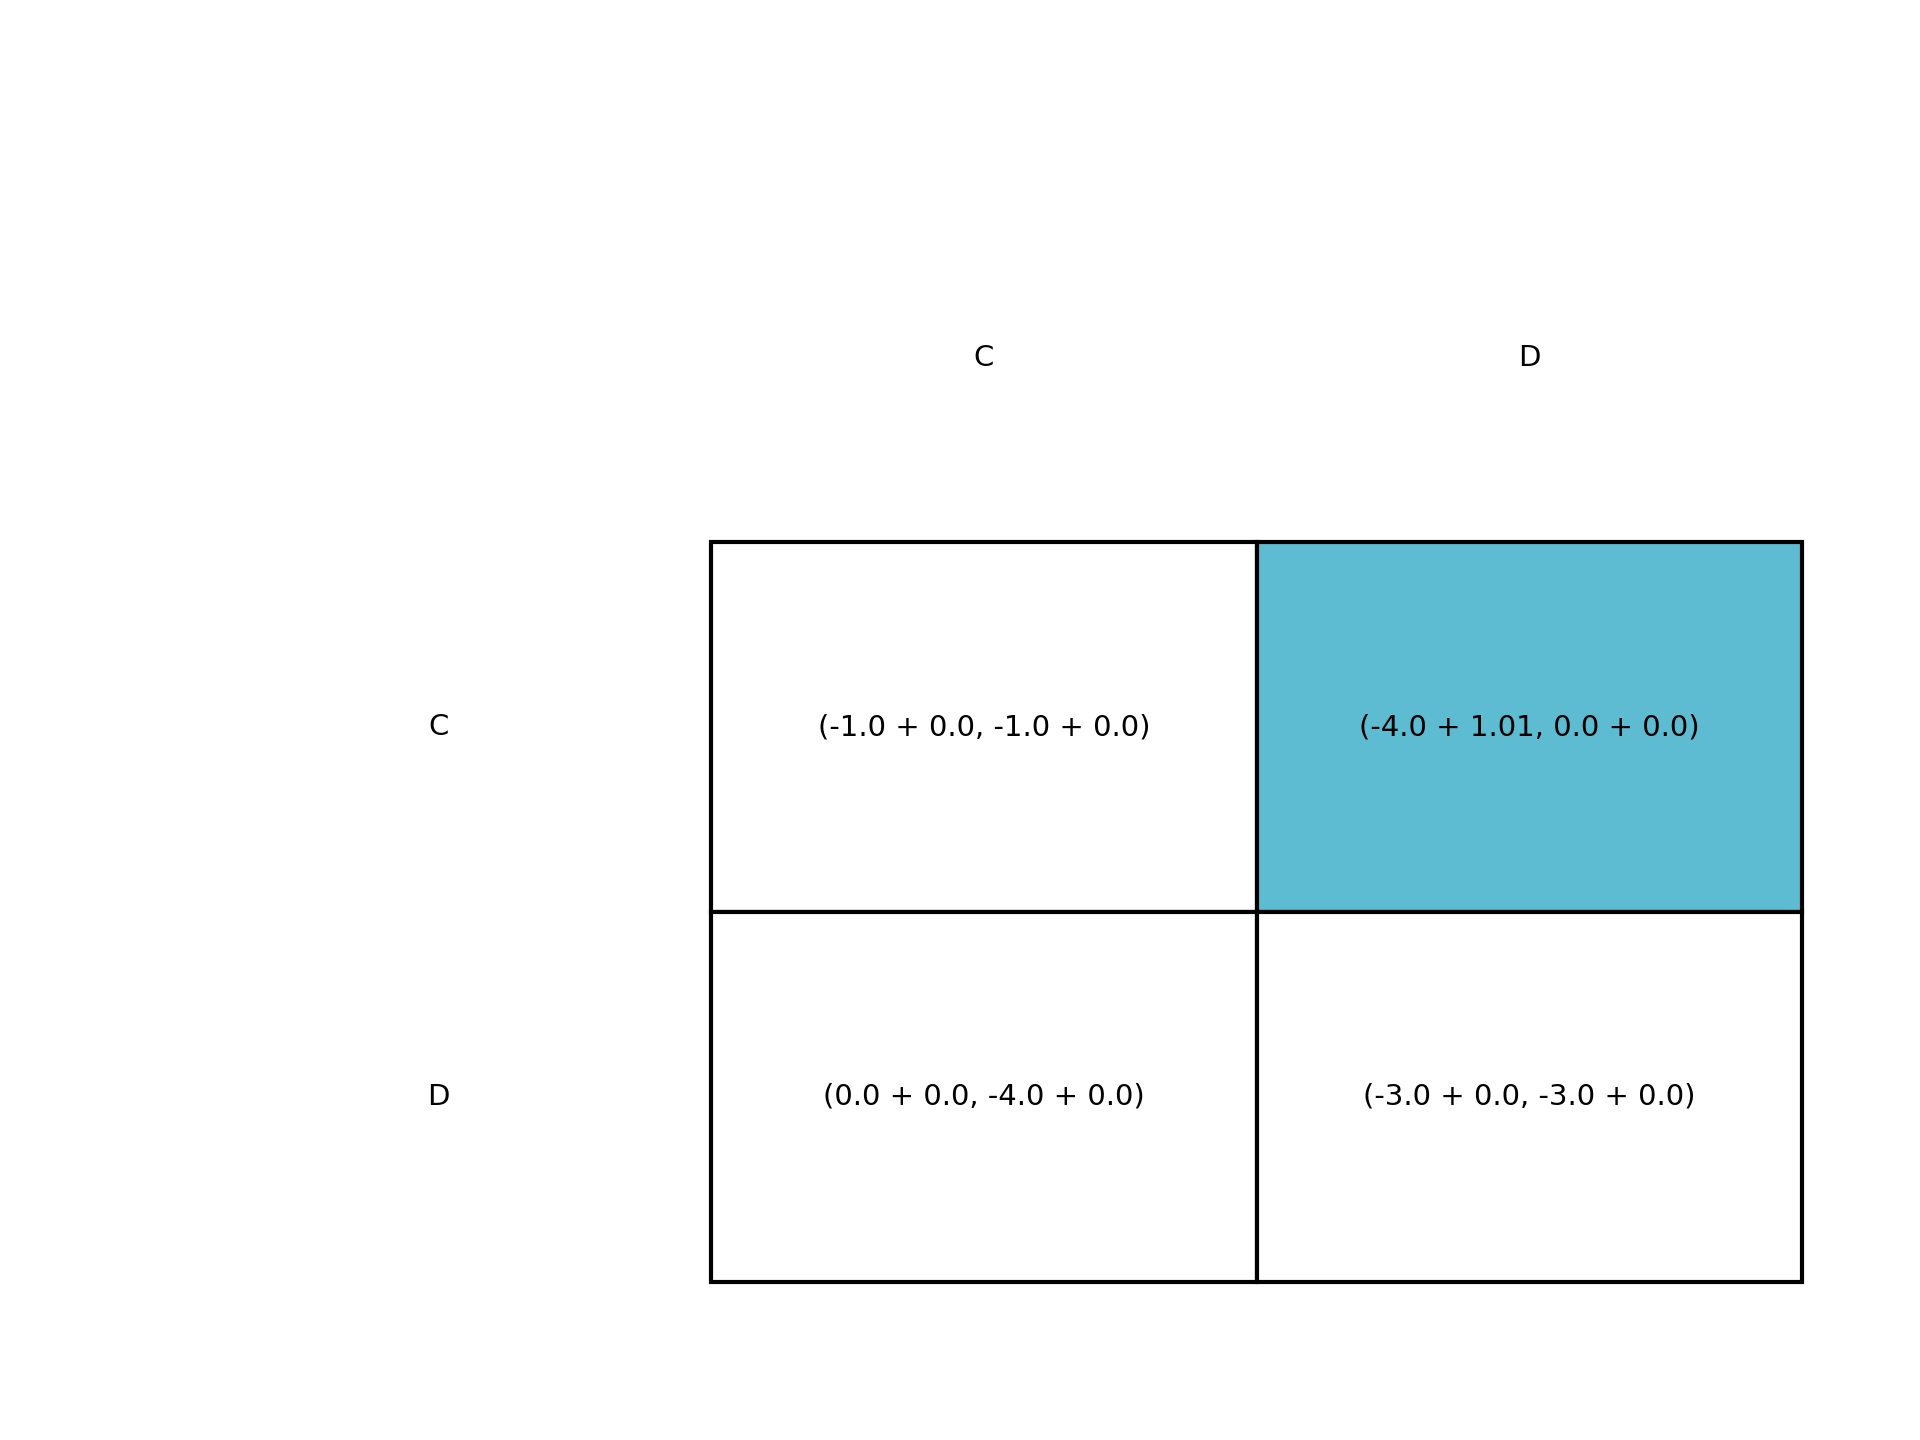
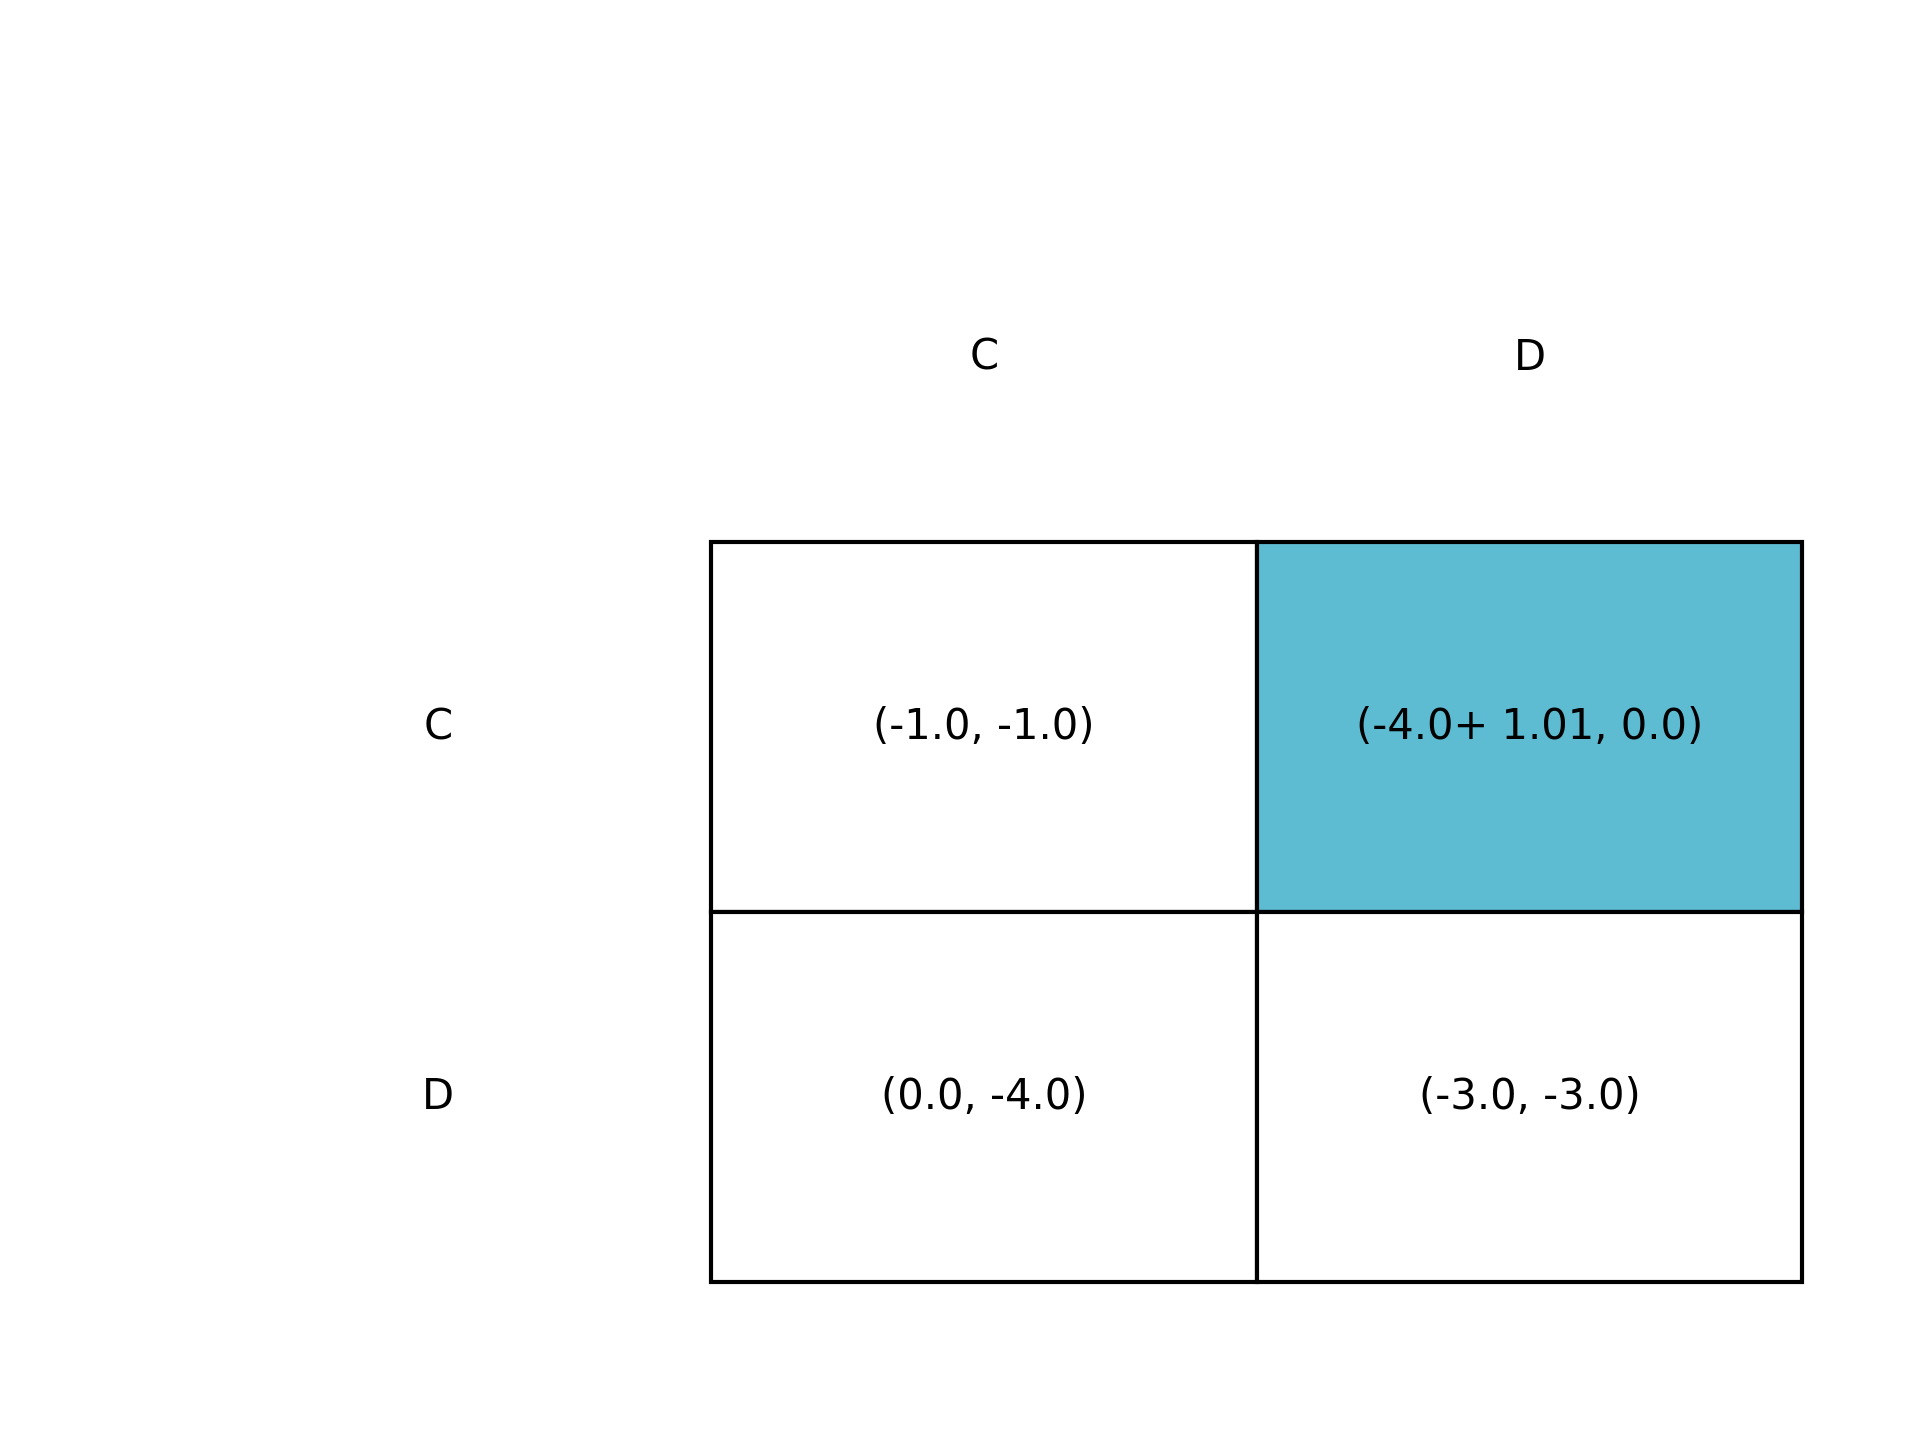
seems fine but stops after second iteration

diff --git a/Ali_codes/GAMETES/NashEqFinder.py b/Ali_codes/GAMETES/NashEqFinder.py
@@ -606,8 +606,14 @@ class NashEqFinder(object):
                     og2 = original_payoff_matrix[(('row', i),('column', j))]['column']
                     new1 = payoff_matrix[(('row', i),('column', j))]['row']
                     new2 = payoff_matrix[(('row', i),('column', j))]['column']
+                    def check_0(s):
+                        if s != '0.0':
+                            return f"+ {s}"
+                        else:
+                            return ""
                     row.append(
-                        "({:s} + {:s}, {:s} + {:s})".format(str(round(float(og1), 4)), str(round(new1 - float(og1), 4)), str(round(float(og2), 4)), str(round(new2 - float(og2), 4)))
+                        # ("({:s} " + check_0(round(new1 - float(og1), 4)) + ", {:s}" + check_0(round(new2 - float(og2), 4)) + ")").format(str(round(float(og1), 4)), str(round(new1 - float(og1), 4)), str(round(float(og2), 4)), str(round(new2 - float(og2), 4)))
+                        f"({str(round(float(og1), 4))}" + check_0(str(round(new1 - float(og1), 4))) + f", {str(round(float(og2), 4))}" + check_0(str(round(new2 - float(og2), 4))) + ")"
                         # ("{:s} + {:s}".format(str(round(og, 4)), str(round(new1 - og, 4))), \
                         #  "{:s} + {:s}".format(str(round(og, 4)), str(round(new2 - og, 4))))
                     )
@@ -1084,82 +1090,83 @@ class NashEqFinder(object):
 
 
         # Method 2c
-        print("\n Using binary variables \n")
-        # For each non-zero α whose optimal value is α^opt, add the following
-        # constraints:
-        #                      α≤α^opt-ϵ  &  α≥ α^opt+ϵ
+        # print("\n Using binary variables \n")
+        # # For each non-zero α whose optimal value is α^opt, add the following
+        # # constraints:
+        # #                      α≤α^opt-ϵ  &  α≥ α^opt+ϵ
 
-        #                     α≤〖(1-y)(α〗^opt-ϵ)+y〖UB〗_α    
-        #                     〖α≥y(α〗^opt+ϵ)+(1-y)LB_α 
+        # #                     α≤〖(1-y)(α〗^opt-ϵ)+y〖UB〗_α    
+        # #                     〖α≥y(α〗^opt+ϵ)+(1-y)LB_α 
 
-        # Note that if y=0, the first constraint is reduced to α≤α^opt-ϵ and 
-        # the second constraint is reduced to α≥〖LB〗_α. On the other hand, 
-        # if y=1, the first constraint is reduced to α≤UB_α and the second 
-        # constraint is reducd to 〖α≥α〗^opt+ϵ. Instead of LB_α and UB_α, 
-        # you can use the big-M approach too, i.e., replaced them with -M and 
-        # M, respectively. 
+        # # Note that if y=0, the first constraint is reduced to α≤α^opt-ϵ and 
+        # # the second constraint is reduced to α≥〖LB〗_α. On the other hand, 
+        # # if y=1, the first constraint is reduced to α≤UB_α and the second 
+        # # constraint is reducd to 〖α≥α〗^opt+ϵ. Instead of LB_α and UB_α, 
+        # # you can use the big-M approach too, i.e., replaced them with -M and 
+        # # M, respectively. 
 
-        binary_constraints = []
-        binary_variables_names = copy.deepcopy(variables_names)
+        # binary_constraints = []
+        # binary_variables_names = copy.deepcopy(variables_names)
 
-        epsilon = 0.01
-        ub = 1000
-        lb = -1000
-        for var_name, var in self.optModel.variables.items():
-            # Didn't work without it, which is weird
-            if var.primal > 0:
-                a_opt = var.primal
-                a = model.variables[var_name]
-                # Add the binary variable
-                str_index = var_name + "_binary"
-                y = optlang.Variable(str_index, lb=0, type='binary', problem=model)
-                model.add(y)
-                binary_variables_names.append(str_index)
+        # epsilon = 0.01
+        # ub = 1000
+        # lb = -1000
+        # for var_name, var in self.optModel.variables.items():
+        #     # Didn't work without it, which is weird
+        #     if var.primal > 0:
+        #         a_opt = var.primal
+        #         a = model.variables[var_name]
+        #         # Add the binary variable
+        #         str_index = var_name + "_binary"
+        #         y = optlang.Variable(str_index, lb=0, type='binary', problem=model)
+        #         model.add(y)
+        #         binary_variables_names.append(str_index)
 
-                c1 = optlang.Constraint(
-                        (1 - y) * (a_opt - epsilon) + y * ub - a,
-                        lb = 0
-                    )
-                c2 = optlang.Constraint(
-                    a - y * (a_opt + epsilon) - (1 - y) * lb,
-                    lb=0
-                    )
+        #         c1 = optlang.Constraint(
+        #                 (1 - y) * (a_opt - epsilon) + y * ub - a,
+        #                 lb = 0
+        #             )
+        #         c2 = optlang.Constraint(
+        #             a - y * (a_opt + epsilon) - (1 - y) * lb,
+        #             lb=0
+        #             )
 
-                binary_constraints.append(c1)
-                binary_constraints.append(c2)
-                model.add(c1)
-                model.add(c2)
+        #         binary_constraints.append(c1)
+        #         binary_constraints.append(c2)
+        #         model.add(c1)
+        #         model.add(c2)
             
-        model.objective = \
-            optlang.Objective(
-                expression=sympy.Add(*sympy.symbols(binary_variables_names)),
-                direction='min'
-            )
+        # model.objective = \
+        #     optlang.Objective(
+        #         expression=sympy.Add(*sympy.symbols(binary_variables_names)),
+        #         direction='min'
+        #     )
         
-        print('binary_opt_constraints', binary_constraints)
+        # print('binary_opt_constraints', binary_constraints)
         
-        self.optModel = model        
-        self.optModel.optimize()
+        # self.optModel = model        
+        # self.optModel.optimize()
 
-        print('FINAL optlang model for binary — Method 2c precluded', model)
+        # print('FINAL optlang model for binary — Method 2c precluded', model)
 
-        # Print the results on the screen 
-        print("status:", self.optModel.status)
-        print("objective value:", self.optModel.objective.value)
-        print("----------")
-        for var_name, var in self.optModel.variables.items():
-            print(var_name, "=", var.primal)
+        # # Print the results on the screen 
+        # print("status:", self.optModel.status)
+        # print("objective value:", self.optModel.objective.value)
+        # print("----------")
+        # for var_name, var in self.optModel.variables.items():
+        #     print(var_name, "=", var.primal)
 
-        original_payoff_matrix = copy.deepcopy(self.game.payoff_matrix)
-        self.validate(nasheq_cells, method=f"Method 2c with new equilibria={nasheq_cells} precluded")
-        self.game.payoff_matrix = original_payoff_matrix
+        # original_payoff_matrix = copy.deepcopy(self.game.payoff_matrix)
+        # self.validate(nasheq_cells, method=f"Method 2c with new equilibria={nasheq_cells} precluded")
+        # self.game.payoff_matrix = original_payoff_matrix
         
-        # Extremely important step
-        model.remove(binary_constraints)
-        print('Original payoff matrix', self.game.payoff_matrix)
+        # # Extremely important step
+        # model.remove(binary_constraints)
+        # print('Original payoff matrix', self.game.payoff_matrix) 
 
 
 
+        # Old before May 19
         # Iterative Method 2c
         # print("\n Using binary variables \n")
         # # For each non-zero α whose optimal value is α^opt, add the following
@@ -1371,6 +1378,198 @@ class NashEqFinder(object):
         # # # Extremely important step
         # # model.remove(binary_constraints)
         # # print('Original payoff matrix', self.game.payoff_matrix)
+
+
+
+
+
+        # New on May 19
+        # Iterative Method 2c
+        print("\n Using binary variables \n")
+        # For each non-zero α whose optimal value is α^opt, add the following
+        # constraints:
+        #                      α≤α^opt-ϵ  &  α≥ α^opt+ϵ
+
+        #                     α≤〖(1-y)(α〗^opt-ϵ)+y〖UB〗_α    
+        #                     〖α≥y(α〗^opt+ϵ)+(1-y)LB_α 
+
+        # Note that if y=0, the first constraint is reduced to α≤α^opt-ϵ and 
+        # the second constraint is reduced to α≥〖LB〗_α. On the other hand, 
+        # if y=1, the first constraint is reduced to α≤UB_α and the second 
+        # constraint is reducd to 〖α≥α〗^opt+ϵ. Instead of LB_α and UB_α, 
+        # you can use the big-M approach too, i.e., replaced them with -M and 
+        # M, respectively. 
+
+        
+        # Adding new attributes to self
+        self.current_variables = copy.deepcopy(variables_names)
+        self.current_binary_variables = []
+        self.current_binary_constraints = []
+        self.current_primals = {}
+        for var_name, var in self.optModel.variables.items():
+            print(var_name, "=", var.primal)
+            self.current_variables.append(var_name)
+            self.current_primals[var_name] = var.primal
+
+        # For iteration = 1 to 10
+        for iteration in range(5):
+            print(f"\n\n\n----iteration {iteration + 1}----\n\n\n")
+            print(f"----removing binary variables and constrains to start anew----\n")
+
+            # Removing binary variables and their specific constraints from
+            # model
+            for binary_var in self.current_binary_variables:
+                model.remove(binary_var)
+            # for binary_cons in self.current_binary_constraints:
+            #     model.remove(binary_cons)
+            # Removing binary variables and their specific constraints from
+            # self.current_variables and
+            # self.current_binary_variables and
+            # self.current_binary_constraints
+            # self.current_primals
+            self.current_variables = [e for e in self.current_variables if e not in self.current_binary_variables]  
+            for key_to_remove in self.current_binary_variables:
+                del self.current_primals[key_to_remove]
+            self.current_binary_variables = []
+            # self.current_binary_constraints = []
+
+            # remove binary variable to start anew in next iteration
+
+            print(f'\nAfter removing in iteration {iteration + 1}, self.current_variables is:', self.current_variables)
+            print(f'\nAfter removing in iteration {iteration + 1}, self.current_binary_variables is:', self.current_binary_variables)
+            print(f'\nAfter removing in iteration {iteration + 1}, self.current_binary_constraints is:')
+            for con in self.current_binary_constraints:
+                print(con)
+            print(f'\nAfter removing in iteration {iteration + 1}, self.current_primals was:', self.current_primals)
+            
+            # print("")
+            # for const in self.current_binary_constraints:
+            #     print(const)
+            # print('\nAnd self.current_binary_variables=', self.current_binary_variables)
+            
+            # Print the results on the screen 
+            print(f"after iteration {iteration} status:", self.optModel.status)
+            print(f"after iteration {iteration} objective value:", self.optModel.objective.value)
+            print("----------")
+            print(f'\nAfter removing in iteration {iteration + 1}, self.optModel.variables are:')
+            for var_name, var in self.optModel.variables.items():
+                print(var_name)
+                # try:
+                #     print(var_name, "=after", var.primal)
+                # except:
+                #     pass
+            print('after model', model)
+  
+
+            payoff_matrix = {}
+            payoff_matrix[(('row','C'),('column','C'))] = {'row':-1,'column':-1}
+            payoff_matrix[(('row','C'),('column','D'))] = {'row':-4,'column':0}
+            payoff_matrix[(('row','D'),('column','C'))] = {'row':0,'column':-4}
+            payoff_matrix[(('row','D'),('column','D'))] = {'row':-3,'column':-3}
+
+            eps_list = []
+            for i in strategies:
+                for j in strategies:
+                    t1 = payoff_matrix[(('row', i),('column', j))]['row']
+                    t2 = payoff_matrix[(('row', i),('column', j))]['column']
+                    if t1 != 0:
+                        eps_list.append(abs(t1))
+                    if t2 != 0:
+                        eps_list.append(abs(t2))
+            epsilon = min(eps_list)
+            print('eps', epsilon)
+            # exit
+            # return
+            # epsilon = 0.01
+            ub = 1000
+            lb = -1000
+            for var_name, var_primal in self.current_primals.items():
+                # Didn't work without it, which is weird
+                if var_primal > 0:
+                    a_opt = var_primal
+                    print(f'a_opt (which is variable {var_name}) for iteration {iteration+1} is', a_opt)
+                    a = model.variables[var_name]
+                    # Add the binary variable
+                    str_index = var_name + "_binary"
+                    y = optlang.Variable(str_index, lb=0, type='binary', problem=model)
+                    model.add(y)
+                    # self.current_variables.append(str_index)
+                    self.current_binary_variables.append(str_index)
+
+                    c1 = optlang.Constraint(
+                            (1 - y) * (a_opt - epsilon) + y * ub - a,
+                            lb = 0
+                        )
+                    c2 = optlang.Constraint(
+                            a - y * (a_opt + epsilon) - (1 - y) * lb,
+                            lb=0
+                        )
+
+                    self.current_binary_constraints.append(c1)
+                    self.current_binary_constraints.append(c2)
+                    model.add(c1)
+                    model.add(c2)
+
+            print('binary_variables_names', self.current_binary_variables)
+                
+            model.objective = \
+                optlang.Objective(
+                    expression=sympy.Add(*sympy.symbols(self.current_variables)),
+                    direction='min'
+                )
+
+            # add every binary variable to current_variables
+            for var in self.current_binary_variables:
+                self.current_variables.append(var)
+            
+            print('self.current_binary_constraints:')
+            for con in self.current_binary_constraints:
+                print(con) 
+            
+            self.optModel = model  
+            # printing model before optimization in iteration + 1
+            print(f"Model before optimization in iteration {iteration + 1} is:", self.optModel)
+            self.optModel.optimize()
+            # if self.optModel.status == "optimal":
+            #     model.__getAttr('X')
+
+            # Subject To
+            #  8f7fe9e6-d7dc-11ec-a414-acde48001122: row_C_column_D_row_plus
+            #    - row_C_column_D_row_minus - row_D_column_D_row_plus
+            #    + row_D_column_D_row_minus >= 1.01
+            #  8f8011e6-d7dc-11ec-a414-acde48001122: - row_C_column_C_column_plus
+            #    + row_C_column_C_column_minus + row_C_column_D_column_plus
+            #    - row_C_column_D_column_minus >= -1
+            #  909a28aa-d7dc-11ec-a414-acde48001122: - row_C_column_D_row_plus >= -0.01
+            #  909a64fa-d7dc-11ec-a414-acde48001122: row_C_column_D_row_plus >= -1000
+            #  90cd8790-d7dc-11ec-a414-acde48001122: - row_D_column_D_row_minus
+            #    + 999.9900000095367 row_D_column_D_row_minus_binary
+            #    >= -0.00999999046325684
+            #  90cdb698-d7dc-11ec-a414-acde48001122: row_D_column_D_row_minus
+            #    - 1002.009999990463 row_D_column_D_row_minus_binary >= -1000
+            # Bounds
+            # Binaries
+            #  row_D_column_D_row_minus_binary
+            # End
+
+
+            # status: optimal
+            # objective value: 4.019999980926514
+
+            print(f'\n\nFINAL optlang model for binary — Method 2c iteration {iteration+1} precluded', model)
+
+            # Print the results on the screen 
+            print("\nstatus:", self.optModel.status)
+            print("objective value:", self.optModel.objective.value)
+            print("----------")
+            for var_name, var in self.optModel.variables.items():
+                print(var_name, "=", var.primal)
+                self.current_primals[var_name] = var.primal
+
+            
+            original_payoff_matrix = copy.deepcopy(self.game.payoff_matrix)
+            self.validate_2c(nasheq_cells, method=f"New Method 2c iteration {iteration + 1}, epsilon={epsilon}, with new equilibria={nasheq_cells} precluded")
+            self.game.payoff_matrix = original_payoff_matrix
 
         
 
